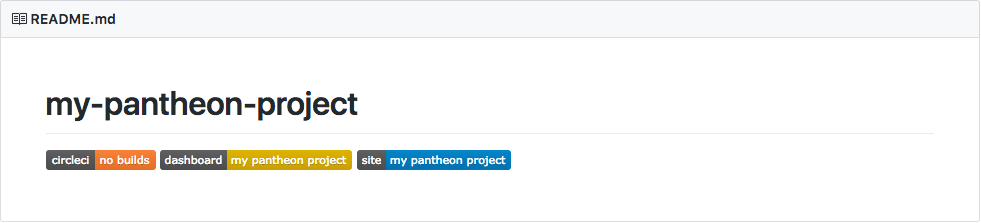
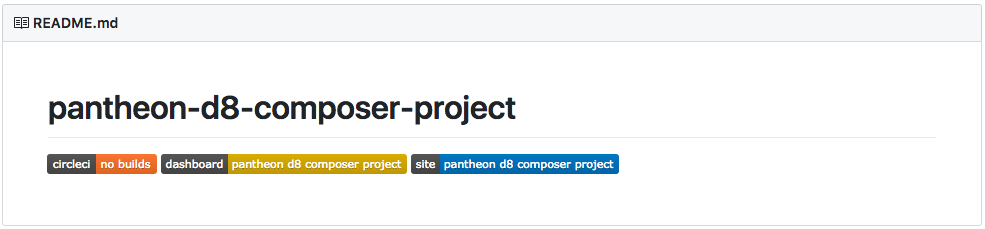
Refactor first two pages of build tools

diff --git a/source/docs/assets/css/main.css b/source/docs/assets/css/main.css
@@ -3737,9 +3737,8 @@ p.devbar>a:hover{
 }
 .label {
   display: inline-block !important;
-  vertical-align: top !important;
+  vertical-align: text-bottom;
   margin-left: 4px;
-  padding: .2em .6em .2em;
 }
 .label-info {
   background-color: #0093c9;
@@ -5611,6 +5610,9 @@ h2>.glyphicons {
 }
 .no-border {
   border: none !important;
+}
+.nav-tabs {
+  margin: 10px 0px;
 }
 .nav-tabs>li>a {
   text-decoration: none;

diff --git a/source/_docs/guides/build-tools/02-create-project.md b/source/_docs/guides/build-tools/02-create-project.md
@@ -14,66 +14,80 @@ nexturl: guides/build-tools/create-pr/
 previousurl: guides/build-tools/
 editpath: build-tools/02-create-project.md
 ---
-Setting up multiple distributed services can be complicated, and, at the moment, this can only be done from the command line. Fortunately, the Terminus Build Tools Plugin makes this setup relatively simple.
+In this section we'll use the Terminus Build Tools Plugin to create a new Pantheon Site, a corresponding GitHub repository, and configure CircleCI to run tests.
 
-In this section we'll create a new Pantheon Site, a corresponding GitHub repository, and configure CircleCI to run tests.
+1. Create a [CircleCI personal API token](https://circleci.com/account/api){.external} and export the value to the `CIRCLE_TOKEN` environment variable (replace `[REDACTED]`):
 
-1. Create a [GitHub personal access token](https://help.github.com/articles/creating-an-access-token-for-command-line-use/) and save the string generated for the next steps.
-2. Create a [CircleCI personal API token](https://circleci.com/account/api) and save the string generated for the next steps.
+    <div class="copy-snippet">
+    <button class="btn btn-default btn-clippy" data-clipboard-target="#circle-token">Copy</button>
+    <figure><pre id="circle-token"><code class="command bash" data-lang="bash">export CIRCLE_TOKEN=[REDACTED]</code></pre></figure>
+    </div>
+
+2. Create a [GitHub personal access token](https://help.github.com/articles/creating-an-access-token-for-command-line-use/){.external} and export the value to the `CIRCLE_TOKEN` environment variable (replace `[REDACTED]`):
+
+    <div class="copy-snippet">
+    <button class="btn btn-default btn-clippy" data-clipboard-target="#github-token">Copy</button>
+    <figure><pre id="github-token"><code class="command bash" data-lang="bash">export GITHUB_TOKEN=[REDACTED]</code></pre></figure>
+    </div>
+
 3. Create a new project:
 
     <ul class="nav nav-tabs" role="tablist">
-      <li role="presentation" class="active"><a href="#wp" aria-controls="gh" role="tab" data-toggle="tab">WordPress</a></li>
-      <li role="presentation"><a href="#d8" aria-controls="bb" role="tab" data-toggle="tab">Drupal 8</a></li>
-      <li role="presentation"><a href="#d7" aria-controls="bb" role="tab" data-toggle="tab">Drupal 7</a></li>
+      <li role="presentation" class="active"><a href="#d8" aria-controls="d8" role="tab" data-toggle="tab">Drupal 8</a></li>
+      <li role="presentation"><a href="#d7" aria-controls="d7" role="tab" data-toggle="tab">Drupal 7 <span class="label label-info">Alpha</span></a></li>
+      <li role="presentation"><a href="#wp" aria-controls="wp" role="tab" data-toggle="tab">WordPress <span class="label label-info">Alpha</span></a></li>
     </ul>
 
     <!-- Tab panes -->
     <div class="tab-content">
-      <div markdown="1" role="tabpanel" class="tab-pane active" id="wp">
-        <p class="instruction" markdown="1">Replace `my-pantheon-project` with the name of your new site.</p>
-        <div class="copy-snippet">
-          <button class="btn btn-default btn-clippy" data-clipboard-target="#wp-create">Copy</button>
-          <figure><pre id="wp-create"><code class="command bash" data-lang="bash">terminus build-env:create-project wp my-pantheon-project</code></pre></figure>
-        </div>
-      </div>
-      <div markdown="1" role="tabpanel" class="tab-pane" id="d8">
-        <p class="instruction" markdown="1">Replace `my-pantheon-project` with the name of your new site.</p>
+      <div markdown="1" role="tabpanel" class="tab-pane active" id="d8">
+        <p class="instruction" markdown="1">Replace `pantheon-d8-composer-project` with the name of your new site.</p>
         <div class="copy-snippet">
           <button class="btn btn-default btn-clippy" data-clipboard-target="#d8-create">Copy</button>
-          <figure><pre id="d8-create"><code class="command bash" data-lang="bash">terminus build-env:create-project d8 my-pantheon-project</code></pre></figure>
+          <figure><pre id="d8-create"><code class="command bash" data-lang="bash">terminus build:project:create d8 pantheon-d8-composer-project</code></pre></figure>
         </div>
       </div>
       <div markdown="1" role="tabpanel" class="tab-pane" id="d7">
-        <p class="instruction" markdown="1">Replace `my-pantheon-project` with the name of your new site.</p>
+        <p class="instruction" markdown="1">Replace `pantheon-d7-composer-project` with the name of your new site:</p>
         <div class="copy-snippet">
           <button class="btn btn-default btn-clippy" data-clipboard-target="#d7-create">Copy</button>
-          <figure><pre id="d7-create"><code class="command bash" data-lang="bash">terminus build-env:create-project d7 my-pantheon-project</code></pre></figure>
+          <figure><pre id="d7-create"><code class="command bash" data-lang="bash">terminus build:project:create d7 pantheon-d7-composer-project --stability=alpha</code></pre></figure>
+        </div>
+      </div>
+      <div markdown="1" role="tabpanel" class="tab-pane" id="wp">
+        <p class="instruction" markdown="1">Replace `pantheon-wp-composer-project` with the name of your new site:</p>
+        <div class="copy-snippet">
+          <button class="btn btn-default btn-clippy" data-clipboard-target="#wp-create">Copy</button>
+          <figure><pre id="wp-create"><code class="command bash" data-lang="bash">terminus build:project:create wp pantheon-wp-composer-project --stability=alpha</code></pre></figure>
         </div>
       </div>
     </div>
 
-    The `create-project` command will prompt for any additional information it may need to set up the build workflow, such as:
-
-      - GitHub [personal access token](https://help.github.com/articles/creating-an-access-token-for-command-line-use/).
-      - CircleCI [personal API token](https://circleci.com/account/api).
-      - Password for the CMS admin account, used to log in to your test environments.
-      - The Pantheon team the site should be associated with (recommended).
-
-    Answer the questions when prompted, as shown below:
+    Provide additional information as prompted, such as:
 
     ![Create Project Prompts](/source/docs/assets/images/pr-workflow/build-env-create-project-prompts.png)
 
-    You can avoid prompting by providing the necessary information either via [environment variables](https://github.com/pantheon-systems/terminus-build-tools-plugin#credentials) or command line options. Run `terminus help build-env:create-project`, or see the [Terminus Build Tools Plugin project page](https://github.com/pantheon-systems/terminus-build-tools-plugin) for more information.
+    <div class="alert alert-info">
+    <h4 class="info">Note</h4>
+    <div markdown="1">
+    Pantheon's composer based example repositories are maintained and supported on GitHub. After browsing existing issues, report errors in the appropriate repository's issue queue:
 
-4. Once the command is finished, use the provided URL to visit your project on GitHub. This page will start off with a README file that is initially blank, save for the project title and three badges:
+      * [Drupal 8](https://github.com/pantheon-systems/example-drops-8-composer/issues){.external}
+      * [Drupal 7 (Alpha)](https://github.com/pantheon-systems/example-drops-7-composer/issues){.external}
+      * [WordPress (Alpha)](https://github.com/pantheon-systems/example-wordpress-composer/issues){.external}
+    </div>
+    </div>
+
+4. Once your site is ready, the URL to your project page will be printed to your terminal window. Copy this address and paste it into a browser to visit your new project on GitHub:
 
   ![Initial Project Page](/source/docs/assets/images/pr-workflow/initial-project-page.png)
 
-  The badges on your project page are linked locations you will frequently visit while working on your site:
+  The badges on your project page provide quick access to the different components used to manage your site:
 
     - The CircleCI page for your project
     - Your Pantheon dashboard
     - Your test site
 
-  Click on these badges to quickly navigate to the different components used to manage your site. If you click on the CircleCI badge, you can watch your project's initial test run. Once your tests successfully complete, the orange CircleCI "no builds" badge will become a green "passing" badge.
+  If you click on the CircleCI badge, you can watch your project's initial test run. Once your tests successfully complete, the orange CircleCI "no builds" badge will become a green "passing" badge:
+
+  ![Passing Project Page](/source/docs/assets/images/pr-workflow/passing-project-page.png)

diff --git a/source/_docs/guides/build-tools/01-introduction.md b/source/_docs/guides/build-tools/01-introduction.md
@@ -6,6 +6,8 @@ tags: [automate]
 contributors:
   - greg-1-anderson
   - stevector
+  - ataylorme
+  - rachelwhitton
 layout: guide
 type: guide
 anchorid: build-tools
@@ -32,7 +34,7 @@ This guide describes how to use build tools such as GitHub and CircleCI with Com
           <p class="pantheon-official"></p>
         </div>
       </div>
-      <p class="topic-info__description"><a href="https://github.org">GitHub</a> is an online service that provides cloud storage Git repositories that may be cloned and used locally, or edited directly through their web-based management interface. These features are very useful to teams collaborating on a project together.</p>
+      <p class="topic-info__description" markdown="1">[GitHub](https://github.org){.external} is an online service that provides cloud storage Git repositories that may be cloned and used locally, or edited directly through their web-based management interface. These features are very useful to teams collaborating on a project together.</p>
     </div>
   </div>
   <div class="flex-panel-item">
@@ -44,7 +46,7 @@ This guide describes how to use build tools such as GitHub and CircleCI with Com
           <p class="pantheon-official"></p>
         </div>
       </div>
-      <p class="topic-info__description"><a href="https://circleci.com">CircleCI</a> provides hosted services to run automated tests for a project, and GitHub provides an integration to run these tests to whenever a change is submitted. The process of testing each set of changed files prior to merging them into the main branch is called continuous integration.</p>
+      <p class="topic-info__description" markdown="1">[CircleCI](https://circleci.com){.external} provides hosted services to run automated tests for a project, and GitHub provides an integration to run these tests to whenever a change is submitted. The process of testing each set of changed files prior to merging them into the main branch is called continuous integration.</p>
     </div>
   </div>
   <div class="flex-panel-item">
@@ -78,7 +80,7 @@ Composer is used to fetch dependencies declared by the project as part of a Circ
 1. Start by [learning Composer fundamentals](/docs/composer/).
 2. To prepare your system for local development, install:
 
-    - [Composer](https://getcomposer.org)
+    - [Composer](https://getcomposer.org){.external}
     - Install the most recent release of Terminus with the following command within a directory where you have permission to write files. If in doubt, you can create a <code>terminus</code> directory in your <code>$HOME</code> and install there:
 
         <div class="copy-snippet">
@@ -86,32 +88,37 @@ Composer is used to fetch dependencies declared by the project as part of a Circ
           <figure><pre id="terminus-installer"><code class="command bash" data-lang="bash">curl -O https://raw.githubusercontent.com/pantheon-systems/terminus-installer/master/builds/installer.phar && php installer.phar install</code></pre></figure>
         </div>
 
-        - [Generate a Machine Token](https://dashboard.pantheon.io/machine-token/create) from **User Dashboard** > **Account** > **Machine Tokens**, then authenticate Terminus:
+        - [Generate a Machine Token](https://dashboard.pantheon.io/machine-token/create){.external} from **User Dashboard** > **Account** > **Machine Tokens**, then authenticate Terminus:
 
             <div class="copy-snippet">
               <button class="btn btn-default btn-clippy" data-clipboard-target="#mac-mt-auth">Copy</button>
               <figure><pre id="mac-mt-auth"><code class="command bash" data-lang="bash">terminus auth:login --machine-token=&lsaquo;machine-token&rsaquo;</code></pre></figure>
             </div>
 
-    - The [Terminus Composer Plugin](https://github.com/pantheon-systems/terminus-composer-plugin):
+    - The [Terminus Composer Plugin](https://github.com/pantheon-systems/terminus-composer-plugin){.external}:
 
         <div class="copy-snippet">
           <button class="btn btn-default btn-clippy" data-clipboard-target="#composer-plugin">Copy</button>
           <figure><pre id="composer-plugin"><code class="command bash" data-lang="bash">curl https://github.com/pantheon-systems/terminus-composer-plugin/archive/1.0.0.tar.gz -L | tar -C ~/.terminus/plugins -xvz</code></pre></figure>
         </div>
 
-    - The [Terminus Drupal Console Plugin](https://github.com/pantheon-systems/terminus-drupal-console-plugin):
+    - The [Terminus Drupal Console Plugin](https://github.com/pantheon-systems/terminus-drupal-console-plugin){.external}:
 
         <div class="copy-snippet">
           <button class="btn btn-default btn-clippy" data-clipboard-target="#console-plugin">Copy</button>
           <figure><pre id="console-plugin"><code class="command bash" data-lang="bash">curl https://github.com/pantheon-systems/terminus-drupal-console-plugin/archive/1.0.2.tar.gz -L | tar -C ~/.terminus/plugins -xvz</code></pre></figure>
         </div>
 
-    - The [Terminus Build Tools Plugin](https://github.com/pantheon-systems/terminus-build-tools-plugin):
+    - The [Terminus Build Tools Plugin](https://github.com/pantheon-systems/terminus-build-tools-plugin){.external}:
 
         <div class="copy-snippet">
           <button class="btn btn-default btn-clippy" data-clipboard-target="#build-tools-plugin">Copy</button>
-          <figure><pre id="build-tools-plugin"><code class="command bash" data-lang="bash">curl https://github.com/pantheon-systems/terminus-build-tools-plugin/archive/2.0.0-alpha2.tar.gz -L | tar -C ~/.terminus/plugins -xvz</code></pre></figure>
+          <figure><pre id="build-tools-plugin"><code class="command bash" data-lang="bash">curl https://github.com/pantheon-systems/terminus-build-tools-plugin/archive/1.3.9.tar.gz -L | tar -C ~/.terminus/plugins -xvz</code></pre></figure>
         </div>
 
-3. [Authorize CircleCI on Github](https://github.com/login/oauth/authorize?client_id=78a2ba87f071c28e65bb).
+3. [Authorize CircleCI on Github](https://github.com/login/oauth/authorize?client_id=78a2ba87f071c28e65bb){.external}.
+
+    <div class="alert alert-info">
+    <h4 class="info">Note</h4>
+    <p markdow="1">If you are redirected to the CircleCI homepage, you have already authorized the service for your GitHub user. Nice! Way to be ahead of the game.</p>
+    </div>
